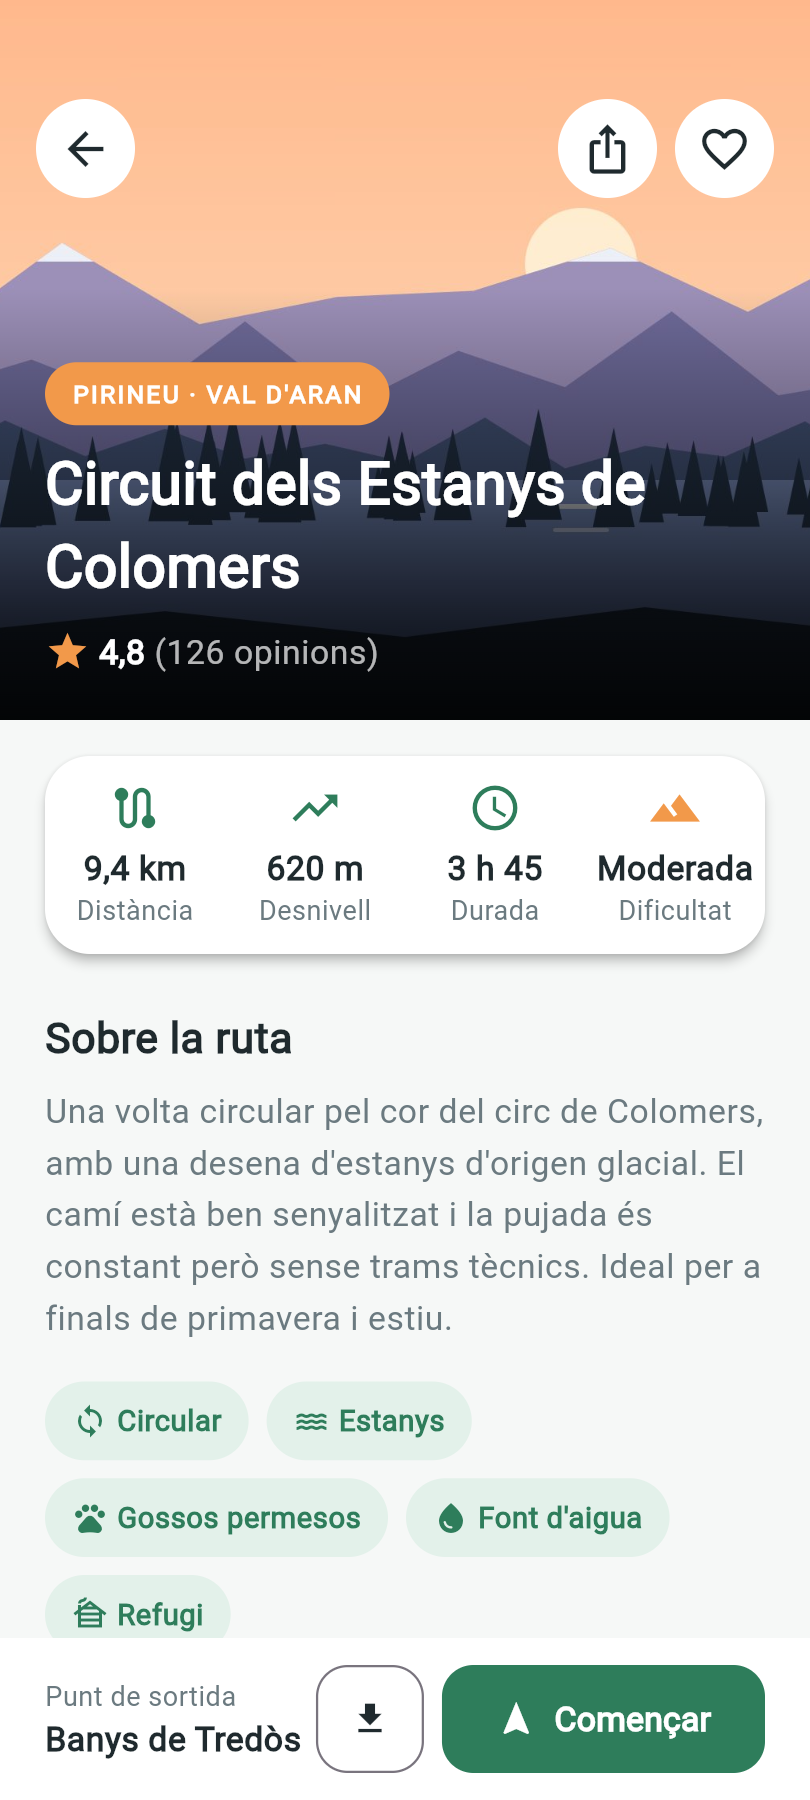
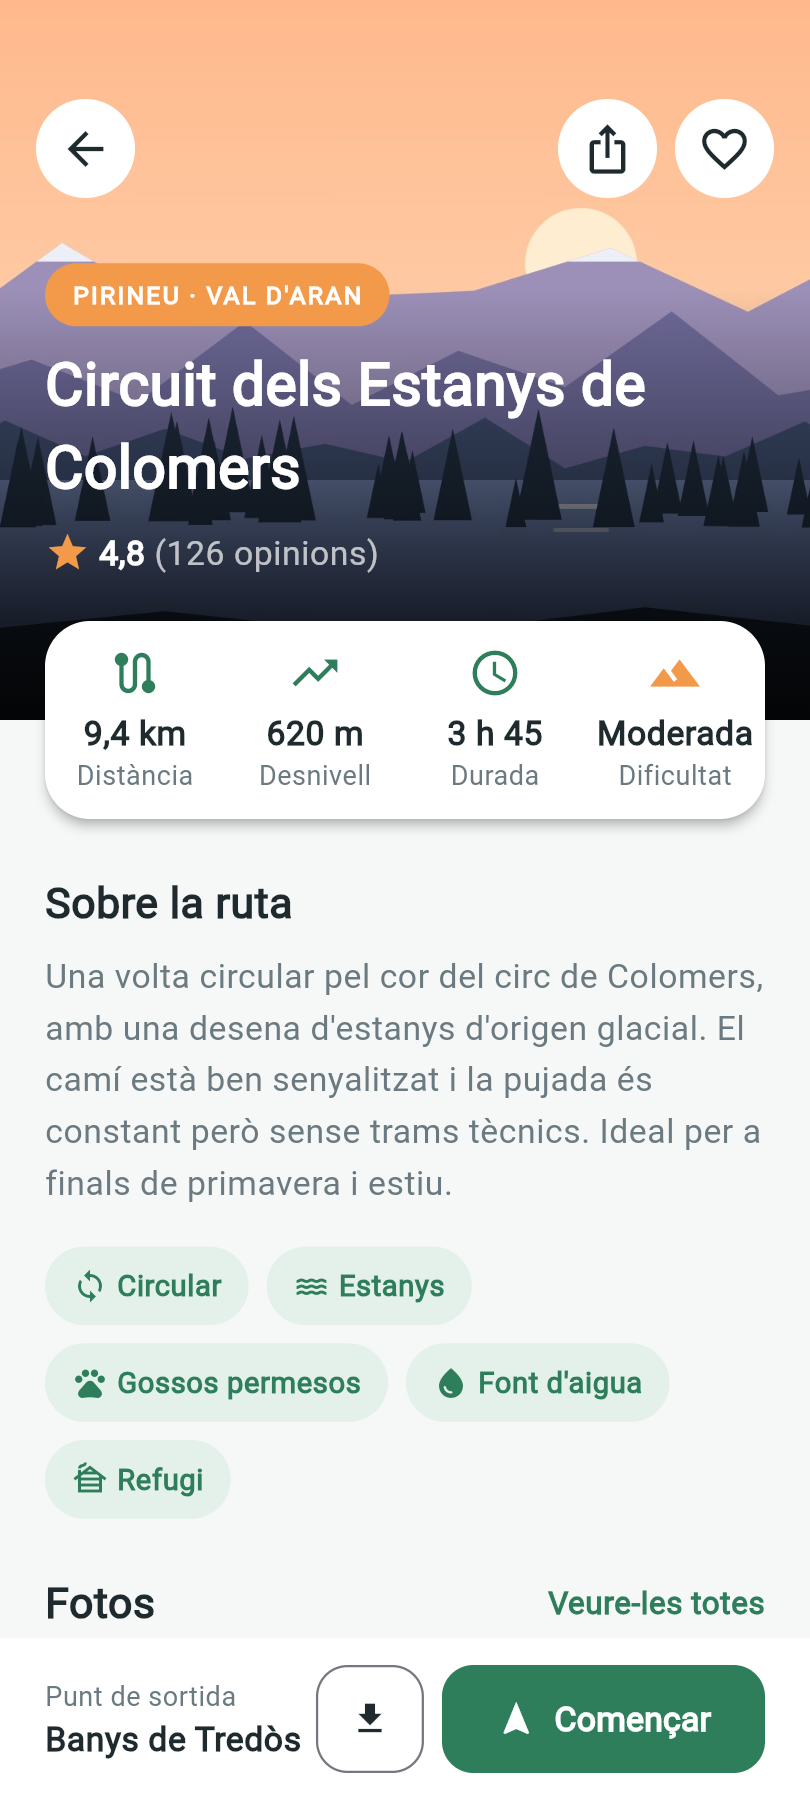
Nivell Repte: línia de les etapes, fitxa que sobresurt, README i captures

Changed region(s): [[0.0309, 0.1244, 0.9568, 0.9022], [0.5247, 0.84, 0.9568, 0.9022]]

diff --git a/actividades/camins/lib/screens/trail_detail_screen.dart b/actividades/camins/lib/screens/trail_detail_screen.dart
@@ -15,63 +15,73 @@ class TrailDetailScreen extends StatelessWidget {
       body: ListView(
         padding: EdgeInsets.zero,
         children: [
-          // ───────── ZONA 2 · Títol ─────────
-          const TrailHeader(
-            imagePath: 'assets/images/header.jpg',
-            region: "Pirineu · Val d'Aran",
-            title: 'Circuit dels Estanys de Colomers',
-            rating: '4,8',
-            reviewCount: 126,
-          ),
-          // ───────── ZONA 3 · Fitxa  ─────────
-          Padding(
-            padding: const EdgeInsets.fromLTRB(20, 16, 20, 0),
-            child: Card(
-              color: Colors.white,
-              margin: EdgeInsets.zero,
-              elevation: 4,
-              shape: RoundedRectangleBorder(
-                borderRadius: BorderRadius.circular(20),
+          // ───────── ZONES 2 i 3 · Títol + Fitxa (sobresurt) ─────────
+          Stack(
+            children: [
+              const Column(
+                children: [
+                  TrailHeader(
+                    imagePath: 'assets/images/header.jpg',
+                    region: "Pirineu · Val d'Aran",
+                    title: 'Circuit dels Estanys de Colomers',
+                    rating: '4,8',
+                    reviewCount: 126,
+                  ),
+                  SizedBox(height: 44),
+                ],
               ),
-              child: SizedBox(
-                height: 88,
-                child: Row(
-                  children: [
-                    const Expanded(
-                      child: StatItem(
-                        icon: Icons.route,
-                        value: '9,4 km',
-                        label: 'Distància',
-                      ),
+              Positioned(
+                left: 20,
+                right: 20,
+                bottom: 0,
+                child: Card(
+                  color: Colors.white,
+                  margin: EdgeInsets.zero,
+                  elevation: 4,
+                  shape: RoundedRectangleBorder(
+                    borderRadius: BorderRadius.circular(20),
+                  ),
+                  child: SizedBox(
+                    height: 88,
+                    child: Row(
+                      children: [
+                        const Expanded(
+                          child: StatItem(
+                            icon: Icons.route,
+                            value: '9,4 km',
+                            label: 'Distància',
+                          ),
+                        ),
+                        const Expanded(
+                          child: StatItem(
+                            icon: Icons.trending_up,
+                            value: '620 m',
+                            label: 'Desnivell',
+                          ),
+                        ),
+                        const Expanded(
+                          child: StatItem(
+                            icon: Icons.schedule,
+                            value: '3 h 45',
+                            label: 'Durada',
+                          ),
+                        ),
+                        Expanded(
+                          child: StatItem(
+                            icon: Icons.terrain,
+                            value: 'Moderada',
+                            label: 'Dificultat',
+                            iconColor: AppStyles.orange,
+                          ),
+                        ),
+                      ],
                     ),
-                    const Expanded(
-                      child: StatItem(
-                        icon: Icons.trending_up,
-                        value: '620 m',
-                        label: 'Desnivell',
-                      ),
-                    ),
-                    const Expanded(
-                      child: StatItem(
-                        icon: Icons.schedule,
-                        value: '3 h 45',
-                        label: 'Durada',
-                      ),
-                    ),
-                    Expanded(
-                      child: StatItem(
-                        icon: Icons.terrain,
-                        value: 'Moderada',
-                        label: 'Dificultat',
-                        iconColor: AppStyles.orange,
-                      ),
-                    ),
-                  ],
+                  ),
                 ),
               ),
-            ),
+            ],
           ),
-          // ───────── ZONA 4 · Sobre la ruta  ─────────
+          // ───────── ZONA 4 · Sobre la ruta ─────────
           Padding(
             padding: const EdgeInsets.fromLTRB(20, 24, 20, 0),
             child: Column(
@@ -87,10 +97,10 @@ class TrailDetailScreen extends StatelessWidget {
                   style: AppStyles.body,
                 ),
                 AppStyles.mediumSeparator,
-                Wrap(
+                const Wrap(
                   spacing: 8,
                   runSpacing: 8,
-                  children: const [
+                  children: [
                     TagChip(label: 'Circular', icon: Icons.loop),
                     TagChip(label: 'Estanys', icon: Icons.water),
                     TagChip(label: 'Gossos permesos', icon: Icons.pets),
@@ -166,25 +176,26 @@ class TrailDetailScreen extends StatelessWidget {
               children: [
                 Text('Etapes', style: AppStyles.sectionTitle),
                 AppStyles.smallSeparator,
-                StageTile(
+                const StageTile(
                   number: 1,
                   name: 'Banys de Tredòs',
                   detail: 'Sortida · 1.750 m',
                   time: '0:00',
+                  isFirst: true,
                 ),
-                StageTile(
+                const StageTile(
                   number: 2,
                   name: 'Refugi de Colomers',
                   detail: '3,1 km · 2.135 m',
                   time: '1:10',
                 ),
-                StageTile(
+                const StageTile(
                   number: 3,
                   name: 'Estany Major',
                   detail: '4,6 km · 2.180 m',
                   time: '1:45',
                 ),
-                StageTile(
+                const StageTile(
                   number: 4,
                   name: 'Estany Obago',
                   detail: '6,2 km · 2.240 m',
@@ -195,6 +206,7 @@ class TrailDetailScreen extends StatelessWidget {
                   name: 'Tornada als Banys',
                   detail: '9,4 km · 1.750 m',
                   time: '3:45',
+                  isLast: true,
                 ),
               ],
             ),
@@ -202,6 +214,7 @@ class TrailDetailScreen extends StatelessWidget {
           AppStyles.bigSeparator,
         ],
       ),
+      // ───────── ZONA 7 · Barra inferior ─────────
       bottomNavigationBar: Container(
         color: Colors.white,
         padding: const EdgeInsets.symmetric(horizontal: 20, vertical: 12),

diff --git a/actividades/camins/lib/widgets/stage_tile.dart b/actividades/camins/lib/widgets/stage_tile.dart
@@ -8,25 +8,59 @@ class StageTile extends StatelessWidget {
     required this.number,
     required this.detail,
     required this.time,
+    this.isFirst = false,
+    this.isLast = false,
   });
 
   final String name;
   final int number;
   final String detail;
   final String time;
+  final bool isFirst;
+  final bool isLast;
 
   @override
   Widget build(BuildContext context) {
-    return ListTile(
-      contentPadding: EdgeInsets.zero,
-      leading: CircleAvatar(
-        radius: 16,
-        backgroundColor: AppStyles.lightGreen,
-        child: Text('$number', style: AppStyles.stageNumber),
-      ),
-      title: Text(name, style: AppStyles.stageName),
-      subtitle: Text(detail, style: AppStyles.caption),
-      trailing: Text(time, style: AppStyles.caption),
-    );
-  }
-}
+    return SizedBox(
+      height:68,
+      child:Row(
+        children: [
+          SizedBox(
+            width: 32,
+            child: Stack(
+              fit: StackFit.expand,
+              children: [
+                Positioned(
+                  top: isFirst ? 34 : 0,
+                  bottom: isLast ? 34 : 0,
+                  left: 15,
+                  width: 2,
+                  child: ColoredBox(color: AppStyles.lightGreen),
+                ),
+                Center(
+                  child: CircleAvatar(
+                    radius:16,
+                    backgroundColor: AppStyles.lightGreen,
+                    child:Text('$number',style: AppStyles.stageNumber),
+                    ),
+                ),
+              ],
+            ),
+          ),
+          AppStyles.mediumSeparator,
+          Expanded(
+            child: Column(
+              mainAxisAlignment: MainAxisAlignment.center,
+              crossAxisAlignment: CrossAxisAlignment.start,
+              children: [
+                Text(name, style: AppStyles.stageName),
+                Text(detail, style: AppStyles.caption),
+              ],
+            ),
+          ),
+          Text(time, style: AppStyles.caption),
+        ],
+     ),     // Row
+    );       // SizedBox (fin del return)
+  }          // ← cierra el método build
+}            // ← cierra la clase StageTile

diff --git a/actividades/camins/lib/widgets/trail_header.dart b/actividades/camins/lib/widgets/trail_header.dart
@@ -1,6 +1,6 @@
 import 'package:camins/styles/app_styles.dart';
-import 'package:flutter/material.dart';
 import 'package:camins/widgets/round_icon_button.dart';
+import 'package:flutter/material.dart';
 
 class TrailHeader extends StatelessWidget {
   const TrailHeader({
@@ -37,7 +37,7 @@ class TrailHeader extends StatelessWidget {
             ),
           ),
           Positioned(
-            bottom: 20,
+            bottom: 64,
             left: 20,
             right: 20,
             child: Column(

diff --git a/actividades/camins/README.md b/actividades/camins/README.md
@@ -2,12 +2,12 @@
 
 Fitxa d'una ruta de muntanya feta amb Flutter a partir d'un disseny.
 
-**Nivell:** Ampliació + dos detalls del Repte (botons rodons i «+18» a l'última foto)
+**Nivell:** Repte (Base + Ampliació + els quatre detalls del Repte)
 
 ## Captures
 
-| Inici                              | Fotos                              | Etapes                               |
-| ---------------------------------- | ---------------------------------- | ------------------------------------ |
+| Inici | Fotos | Etapes |
+|---|---|---|
 | ![Inici](screenshots/01_inici.png) | ![Fotos](screenshots/02_fotos.png) | ![Etapes](screenshots/03_etapes.png) |
 
 ## Estructura del codi
@@ -29,16 +29,18 @@ lib/
 
 ## Què he fet a cada zona
 
-| Zona               | Nivell    | Com l'he fet                                                                                                                                                  |
-| ------------------ | --------- | ------------------------------------------------------------------------------------------------------------------------------------------------------------- |
-| 1 · Botons         | Repte     | Tres `RoundIconButton` (un `IconButton` blanc de 44 × 44) col·locats amb `Positioned` sobre la imatge.                                                        |
-| 2 · Títol          | Base      | `Stack` amb la imatge (`BoxFit.cover`), un `LinearGradient` de transparent a negre i un `Positioned` amb la regió, el títol i la valoració.                   |
-| 3 · Fitxa de dades | Base      | `Card` blanc amb una `Row` de quatre `Expanded`, cadascun amb un `StatItem`. La icona de Dificultat és taronja gràcies a un paràmetre opcional (`iconColor`). |
-| 4 · Sobre la ruta  | Base      | Títol, text i un `Wrap` de `TagChip` que salten de línia sols quan no caben.                                                                                  |
-| 5 · Fotos          | Ampliació | `GridView.count` de 3 columnes amb `shrinkWrap` i `NeverScrollableScrollPhysics`. Les fotos es generen amb un bucle `for` i s'arrodoneixen amb `ClipRRect`.   |
-| 5 · «+18»          | Repte     | L'última foto és un `Stack` amb la imatge, una capa fosca i el text «+18» centrat.                                                                            |
-| 6 · Etapes         | Ampliació | Cinc `StageTile` basats en `ListTile`, amb el número dins d'un `CircleAvatar`.                                                                                |
-| 7 · Barra inferior | Base      | `bottomNavigationBar` de l'`Scaffold`, sempre visible encara que facis scroll.                                                                                |
+| Zona | Nivell | Com l'he fet |
+|---|---|---|
+| 1 · Botons | Repte | Tres `RoundIconButton` (un `IconButton` blanc de 44 × 44) col·locats amb `Positioned` sobre la imatge. |
+| 2 · Títol | Base | `Stack` amb la imatge (`BoxFit.cover`), un `LinearGradient` de transparent a negre i un `Positioned` amb la regió, el títol i la valoració. |
+| 3 · Fitxa de dades | Base | `Card` blanc amb una `Row` de quatre `Expanded`, cadascun amb un `StatItem`. La icona de Dificultat és taronja gràcies a un paràmetre opcional (`iconColor`). |
+| 3 · Fitxa que sobresurt | Repte | La capçalera i la fitxa van dins d'un mateix `Stack`: una `Column` amb la capçalera i un espai de 44, i la fitxa en un `Positioned` a baix de tot, de manera que sobresurt 44 de la imatge. |
+| 4 · Sobre la ruta | Base | Títol, text i un `Wrap` de `TagChip` que salten de línia sols quan no caben. |
+| 5 · Fotos | Ampliació | `GridView.count` de 3 columnes amb `shrinkWrap` i `NeverScrollableScrollPhysics`. Les fotos es generen amb un bucle `for` i s'arrodoneixen amb `ClipRRect`. |
+| 5 · «+18» | Repte | L'última foto és un `Stack` amb la imatge, una capa fosca i el text «+18» centrat. |
+| 6 · Etapes | Ampliació | Cinc `StageTile`, amb el número dins d'un `CircleAvatar`, el nom, el detall i l'hora. |
+| 6 · Línia vertical | Repte | `StageTile` fet amb `Row` i un `Stack`: una línia de 2 (`ColoredBox` en un `Positioned`) darrere del cercle. Els paràmetres `isFirst` i `isLast` fan que la línia no sobresurti a la primera i l'última etapa. |
+| 7 · Barra inferior | Base | `bottomNavigationBar` de l'`Scaffold`, sempre visible encara que facis scroll. |
 
 ## Bones pràctiques
 
